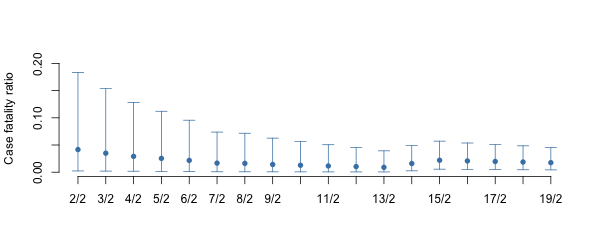
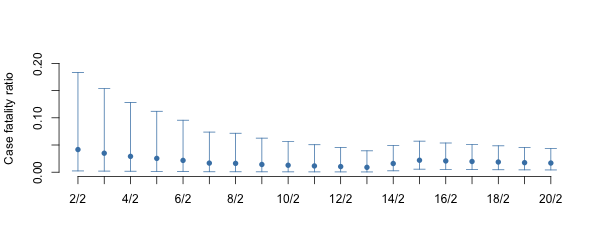
Updated table and case numbers

diff --git a/README.md b/README.md
@@ -1,10 +1,10 @@
 # Estimating case fatality ratio of COVID-19 from observed cases outside China
 
-*Updated report: 20 February 2020*
+*Updated report: 21 February 2020*
 
 Christian L. Althaus (christian.althaus@ispm.unibe.ch), Institute of Social and Preventive Medicine, University of Bern, Bern, Switzerland
 
-**Summary: We provide a preliminary estimate of the overall case fatality ratio (CFR) of COVID-19 at 1.8% (95% confidence interval: 0.4%-4.6%).**
+**Summary: We provide a preliminary estimate of the overall case fatality ratio (CFR) of COVID-19 at 1.7% (95% confidence interval: 0.4%-4.4%).**
 
 COVID-19 has spread rapidly in China with a basic reproduction number of 2.2 (90% high density interval: 1.4-3.8) and a doubling time of around one week during the early phase of the epidemic (1,2). To date, uncertainty remains regarding the case fatality ratio (CFR) of COVID-19. Naive estimates of CFR from the reported numbers of confirmed cases and deaths are difficult to interpret due to the possible underascertainment of mild cases and the right-censoring of cases with respect to the time delay from illness onset to death (3). We argue that reported COVID-19 cases and deaths outside China are less prone to bias and could provide more precise estimates of the absolute CFR (Figure 1, Table 1).
 
@@ -17,13 +17,14 @@ COVID-19 has spread rapidly in China with a basic reproduction number of 2.2 (90
 Date | Country | Sex | Age | Comorbidities | Notes | Source
 --- | --- | --- | --- | --- | --- | ---
 1 Feb 2020 | Philippines | Male | 44 y | *Streptococcus pneumoniae* and *influenza B virus* | Included | [Link](https://www.theguardian.com/global-development/2020/feb/02/coronavirus-deaths-hong-kong-health-workers-to-strike-china-border-)
-13 Feb 2020 | France | Male | 80 y | - | Included | [Link](https://www.theguardian.com/world/2020/feb/15/chinese-tourist-in-france-becomes-europes-first-coronavirus-fatality)
-14 Feb 2020 | Japan | Female | 80+ y | - | Included | [Link](https://www.theguardian.com/world/2020/feb/13/japan-reports-first-coronavirus-death-as-44-more-cases-confirmed-aboard-cruise-ship)
+13 Feb 2020 | Japan | Female | 80+ y | - | Included | [Link](https://www.theguardian.com/world/2020/feb/13/japan-reports-first-coronavirus-death-as-44-more-cases-confirmed-aboard-cruise-ship)
+14 Feb 2020 | France | Male | 80 y | - | Included | [Link](https://www.theguardian.com/world/2020/feb/15/chinese-tourist-in-france-becomes-europes-first-coronavirus-fatality)
 15 Feb 2020 | Taiwan | Male | 61 y | *Hepatitis B virus* and diabetes | Not included (based on WHO country classifications) | [Link](https://www.theguardian.com/world/2020/feb/16/taiwan-reports-first-death-from-coronavirus)
-19 Feb 2020 | Japan | Female | 84 y | - | Not yet included | [Link](https://www.theguardian.com/world/2020/feb/20/coronavirus-two-diamond-princess-passengers-die-as-japan-defends-quarantine)
-19 Feb 2020 | Japan | Male | 87 y | - | Not yet included | [Link](https://www.theguardian.com)
-19 Feb 2020 | Iran | ? | ? | - | Not yet included | [Link](https://www.theguardian.com/world/2020/feb/20/coronavirus-two-diamond-princess-passengers-die-as-japan-defends-quarantine)
-19 Feb 2020 | Iran | ? | ? | - | Not yet included | [Link](https://www.theguardian.com)
+19 Feb 2020 | Republic of Korea | Male | 60+ y | ? | Not included (onset of symptoms not yet recorded) | [Link](https://www.theguardian.com)
+19 Feb 2020 | Japan | Female | 84 y | ? | Not included (onset of symptoms not yet recorded) | [Link](https://www.theguardian.com/world/2020/feb/20/coronavirus-two-diamond-princess-passengers-die-as-japan-defends-quarantine)
+19 Feb 2020 | Japan | Male | 87 y | ? | Not included (onset of symptoms not yet recorded) | [Link](https://www.theguardian.com/world/2020/feb/20/coronavirus-two-diamond-princess-passengers-die-as-japan-defends-quarantine)
+19 Feb 2020 | Iran | ? | ? | ? | Not included (onset of symptoms not yet recorded) | [Link](https://www.theguardian.com)
+19 Feb 2020 | Iran | ? | ? | ? | Not included (onset of symptoms not yet recorded) | [Link](https://www.theguardian.com)
 
 First, we collect COVID-19 cases and deaths outside China from [WHO](https://www.who.int/emergencies/diseases/novel-coronavirus-2019/situation-reports/), [ECDC](https://www.ecdc.europa.eu/en/novel-coronavirus-china) and international media (Figure 1, Table 1). We then model the expected incidence of death due to COVID-19 given the CFR. To this end, we assume that the time from onset to death follows a gamma distribution with a mean of 15.1 days and a shape parameter of 5.1 (Figure 2) (4). Finally, we use a maximum-likelihood framework to estimate CFR by fitting the model to the data assuming the observed numbers of deaths are Poisson distributed (see `R` code file [`ncov_cfr.R`](ncov_cfr.R)).
 
@@ -31,7 +32,7 @@ First, we collect COVID-19 cases and deaths outside China from [WHO](https://www
 
 **Figure 2. Probability distribution of time from onset of COVID-19 symptoms to death.** The distribution is based on publicly available data collected by Linton et al. (4). Dashed and dotted lines corresond to the mean (15.1 days) and median (14.1 days).
 
-We estimate the CFR of COVID-19 at 1.8% (95% confidence interval: 0.4%-4.6%). Due to the small number of deaths, the uncertainty around this estimate remains wide. Increasing numbers of cases and deaths outside China will increase the precision of the estimate (Figure 3). Furthermore, the estimate could represent an upper bound because information on date of onset of symptoms is not available for all reported cases and asymptomatic cases are not included.
+We estimate the CFR of COVID-19 at 1.7% (95% confidence interval: 0.4%-4.4%). Due to the small number of deaths, the uncertainty around this estimate remains wide. Increasing numbers of cases and deaths outside China will increase the precision of the estimate (Figure 3). Furthermore, the estimate could represent an upper bound because information on date of onset of symptoms is not available for all reported cases and asymptomatic cases are not included.
 
 ![](figures/ncov_cfr.png)
 
